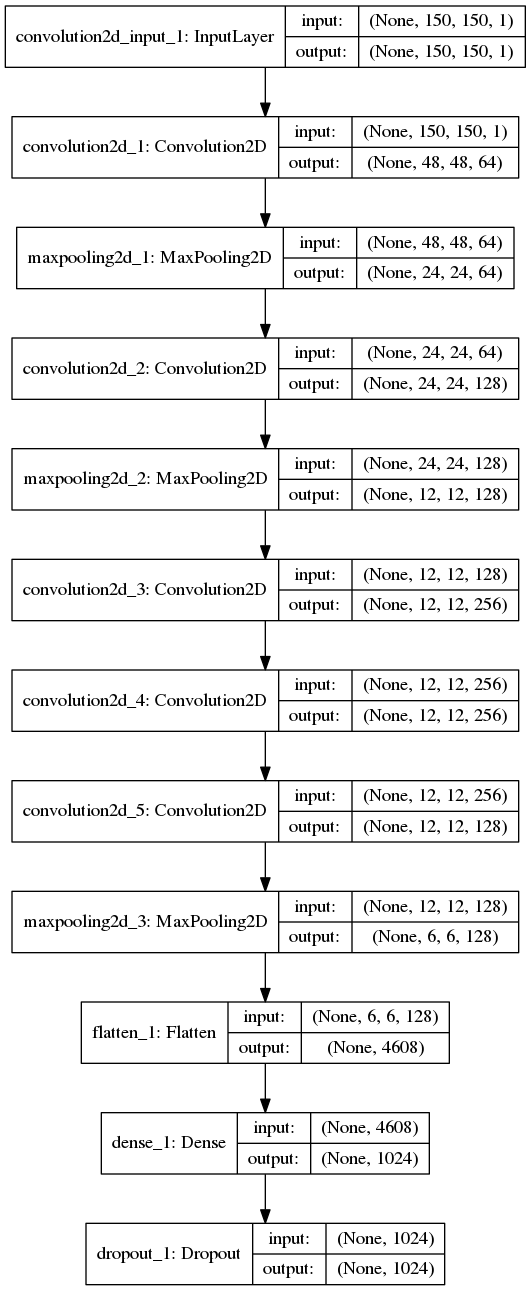
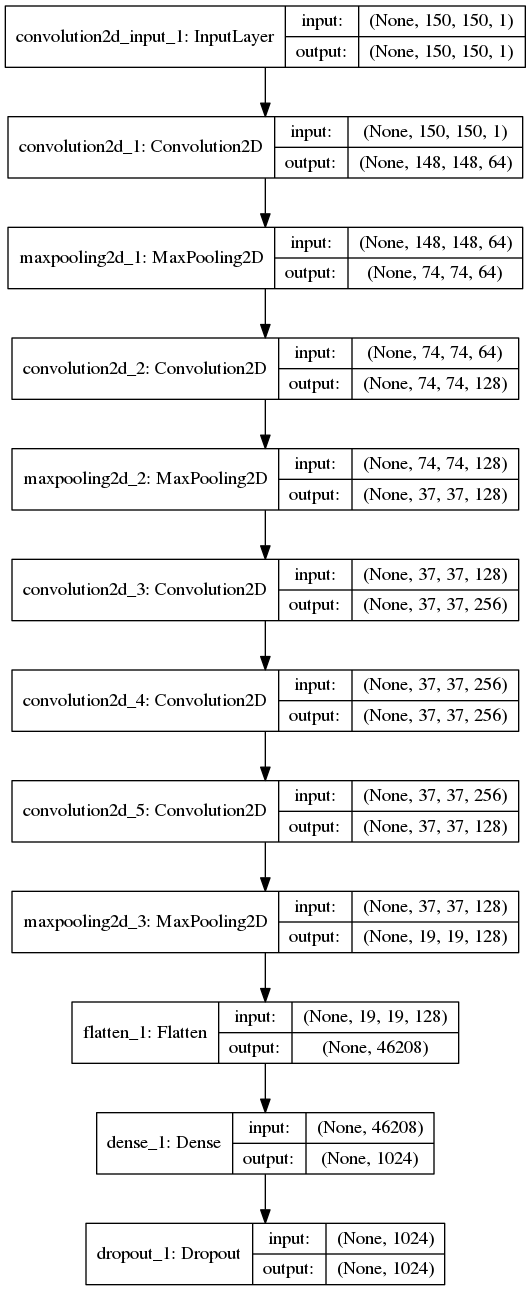
Decreased kernel size, swapped tanh with relu.

diff --git a/tools.py b/tools.py
@@ -223,17 +223,16 @@ def get_model(img_res, additional_features_len, n_classes):
     :return: pre-trained keras model
     '''
     model = Sequential()
-    model.add(Convolution2D(64, 8, 8, subsample=(3, 3), activation='relu',
-                            input_shape=(img_res[0], img_res[1]) + (1,)))
+    model.add(Convolution2D(64, 3, 3, activation='relu', input_shape=(img_res[0], img_res[1]) + (1,)))
     model.add(MaxPooling2D(pool_size=(2, 2), strides=(2, 2), border_mode='same'))
-    model.add(Convolution2D(128, 4, 4, activation='relu', border_mode='same'))
+    model.add(Convolution2D(128, 3, 3, activation='relu', border_mode='same'))
     model.add(MaxPooling2D(pool_size=(2, 2), strides=(2, 2), border_mode='same'))
     model.add(Convolution2D(256, 3, 3, activation='relu', border_mode='same'))
     model.add(Convolution2D(256, 3, 3, activation='relu', border_mode='same'))
     model.add(Convolution2D(128, 3, 3, activation='relu', border_mode='same'))
     model.add(MaxPooling2D(pool_size=(2, 2), strides=(2, 2), border_mode='same'))
     model.add(Flatten())
-    model.add(Dense(1024, activation='tanh'))
+    model.add(Dense(1024, activation='relu'))
     model.add(Dropout(.5))
 
     additional_info_model = Sequential()
@@ -241,10 +240,10 @@ def get_model(img_res, additional_features_len, n_classes):
 
     model_merged = Sequential()
     model_merged.add(Merge([model, additional_info_model], mode='concat'))
-    model_merged.add(Dense(1024 + additional_features_len, activation='tanh'))
+    model_merged.add(Dense(1024 + additional_features_len, activation='relu'))
     model_merged.add(Dropout(.5))
     model_merged.add(Dense(n_classes, activation='softmax'))
-    optimizer = Adam(decay=1e-6)
+    optimizer = Adam(decay=1e-4)
     model_merged.compile(loss='categorical_crossentropy', metrics=['accuracy'], optimizer=optimizer)
 
     # Plot the model to files

diff --git a/train.py b/train.py
@@ -5,10 +5,11 @@ import numpy as np
 import pandas as pd
 from sklearn import preprocessing
 
-from Deep_Learning.kaggle.leaves.tools import load_images, crop_to_first, random_batch_distorted, get_model, \
-    IMAGE_RESOLUTION, ADDITIONAL_FEATURES_LEN, N_CLASSES, NB_EPOCH, onehot_encode
+from tools import load_images, crop_to_first, IMAGE_RESOLUTION, ADDITIONAL_FEATURES_LEN, N_CLASSES, get_model, \
+    random_batch_distorted, NB_EPOCH
+from tools import onehot_encode
 
-BATCH_SIZE = 300
+BATCH_SIZE = 32
 VALID_SIZE = 200
 ITERATIONS = 20000
 
@@ -40,8 +41,8 @@ all_images = [min_max_scaler.fit_transform(x) for x in all_images]
 # Get the model (keras)
 model = get_model(IMAGE_RESOLUTION, ADDITIONAL_FEATURES_LEN, N_CLASSES)
 
-if False:
-    model.load_weights('/media/kamil/c0a6bdfe-d860-4f81-8a6f-1f1d714ac49f/keras/leaves/10v11small.h5')
+if True:
+    model.load_weights('/media/kamil/c0a6bdfe-d860-4f81-8a6f-1f1d714ac49f/keras/leaves/145v14small.h5')
 
 for e in range(ITERATIONS):
     X_train, y_train, Z_train = random_batch_distorted(all_images, onehot_labels, BATCH_SIZE,
@@ -54,8 +55,8 @@ for e in range(ITERATIONS):
     # logging
     print('validation loss, accuracy: ', loss)
 
-    with open("/media/kamil/c0a6bdfe-d860-4f81-8a6f-1f1d714ac49f/keras/leaves/losses4.txt", "a") as myfile:
+    with open("/media/kamil/c0a6bdfe-d860-4f81-8a6f-1f1d714ac49f/keras/leaves/losses5.txt", "a") as myfile:
         myfile.write(str(loss))
 
     if e % 5 == 0 and e != 0:
-        model.save_weights('/media/kamil/c0a6bdfe-d860-4f81-8a6f-1f1d714ac49f/keras/leaves/' + str(e) + 'v13small.h5')
+        model.save_weights('/media/kamil/c0a6bdfe-d860-4f81-8a6f-1f1d714ac49f/keras/leaves/' + str(e) + 'v14small.h5')

diff --git a/test.py b/test.py
@@ -2,23 +2,20 @@
 
 import pandas as pd
 from sklearn import preprocessing
-from sklearn.preprocessing import LabelEncoder
-from sklearn.preprocessing import OneHotEncoder
 import numpy as np
-from collections import Counter
 
-from Deep_Learning.kaggle.leaves.tools import load_images, onehot_encode, crop_to_first, IMAGE_RESOLUTION, \
-    ADDITIONAL_FEATURES_LEN, N_CLASSES, get_model, random_batch_distorted, random_batch_testing, get_encoders
+from tools import load_images, crop_to_first, get_encoders, IMAGE_RESOLUTION, ADDITIONAL_FEATURES_LEN, N_CLASSES, \
+    get_model, random_batch_testing
 
 POOL_SIZE = 31  # number of crops
 
 path = '/home/kamil/Documents/kaggle/leaves/'
 path_images = '/home/kamil/Documents/kaggle/leaves/images/'
 test_path = path + 'test.csv'
-submission_path = path + 'submission4.csv'
+submission_path = path + 'submission5.csv'
 sample_submission_path = path + 'sample_submission.csv'
 # Choose the model version
-model_weights_path = '/media/kamil/c0a6bdfe-d860-4f81-8a6f-1f1d714ac49f/keras/leaves/20v13small.h5'
+model_weights_path = '/media/kamil/c0a6bdfe-d860-4f81-8a6f-1f1d714ac49f/keras/leaves/195v14small.h5'
 
 # Load all labels
 test = pd.read_csv(test_path)

diff --git a/plot_loss.py b/plot_loss.py
@@ -3,12 +3,12 @@ import numpy as np
 import matplotlib.pyplot as plt
 from scipy.interpolate import spline
 
-from Deep_Learning.kaggle.leaves.tools import NB_EPOCH
+from tools import NB_EPOCH
 
-with open("/media/kamil/c0a6bdfe-d860-4f81-8a6f-1f1d714ac49f/keras/leaves/losses4.txt", "r") as myfile:
+with open("/media/kamil/c0a6bdfe-d860-4f81-8a6f-1f1d714ac49f/keras/leaves/losses5.txt", "r") as myfile:
     all_data = myfile.read()
 
-SMOOTH = False
+SMOOTH = True
 
 all_data_list = all_data.split('][')
 all_data_list = [loss_acc.split(',') for loss_acc in all_data_list]
